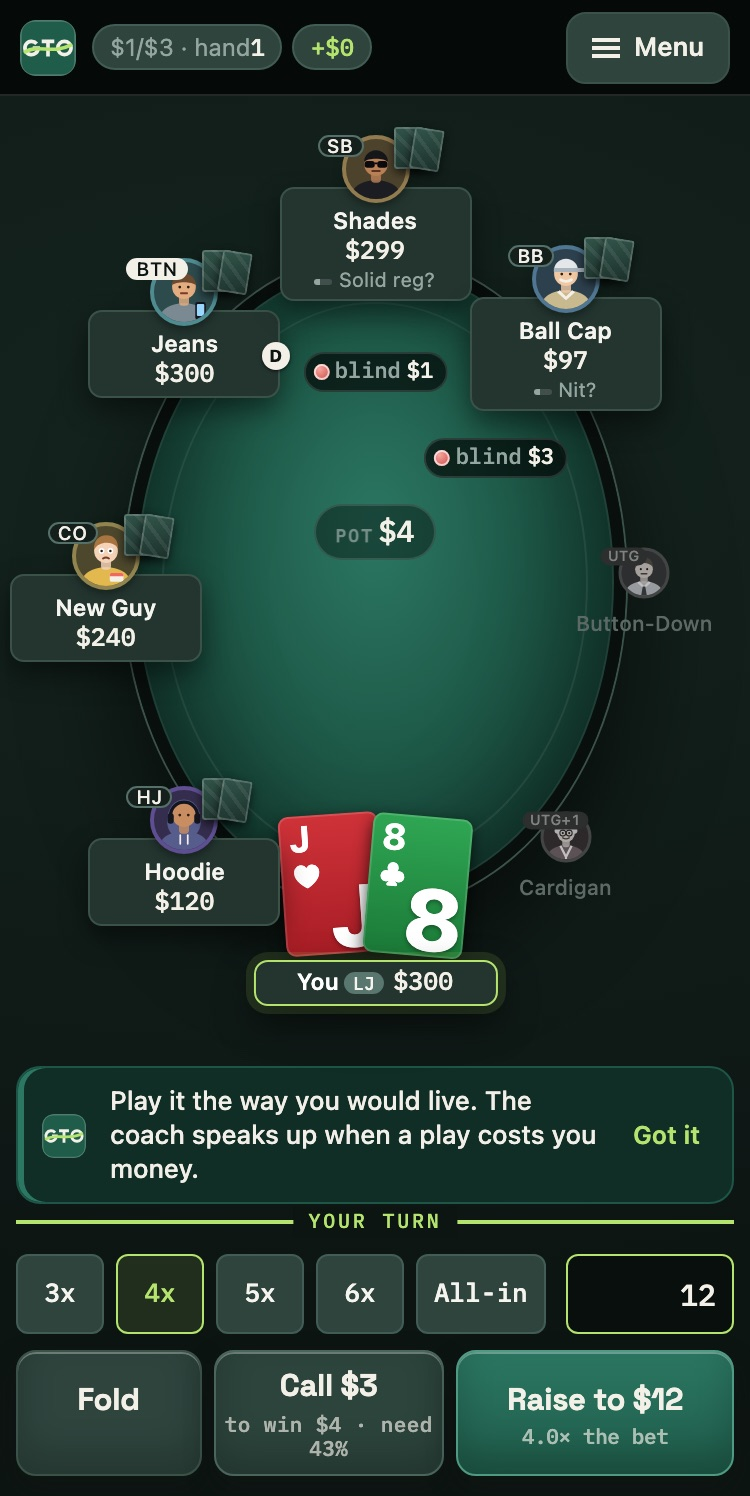
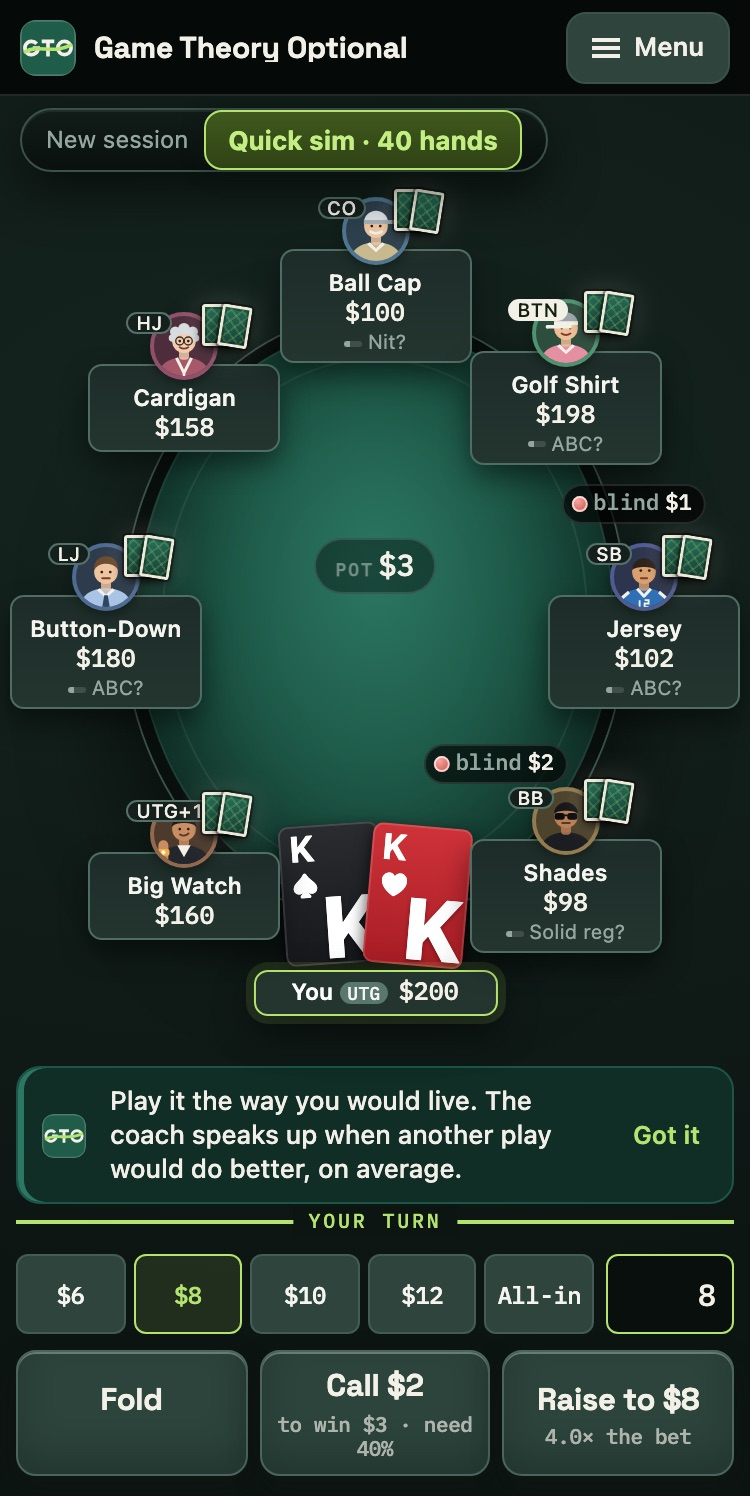
Phones, first visit (DESIGN, CEO): the coach tip's row grows while the three-line tip shows, so it no longer runs under the "YOUR TURN" rule at 360, 375 and 390 wide; every other strip keeps its fixed 44px row. The landing page's phone shot is recaptured with the new tip (a $1/$2 first hand, under t

diff --git a/src/ui/app.js b/src/ui/app.js
@@ -994,6 +994,9 @@ function stripHtml(show, { worst, prev }) {
 function renderToast() {
   const h = sess.hand;
   const el = $('toast');
+  // the first-visit tip runs to three lines on a phone: its row grows while it shows (DESIGN, CEO: it ran under the
+  // "YOUR TURN" rule); every other strip keeps the fixed 44px row, so the table never jumps
+  el.classList.remove('hint-on');
   // RV2-B: on a phone, a coach that couldn't load says so here, over anything else, and once (role="status")
   if (showCoachDown({ failed: judge.failed, phone: matchMedia('(max-width: 600px)').matches })) {
     if (!el.querySelector('.cs.down')) {
@@ -1007,6 +1010,7 @@ function renderToast() {
   const turnKey = `${h.no}:${h.state.history.length}`;
   if (sess.status() === 'hero' && prevTurn.key !== turnKey) prevTurn = { key: turnKey, seen: new Set(h.decisions.filter((x) => !x.pending).map((x) => x.id)) };
   if (hintOn) {
+    el.classList.add('hint-on');
     el.innerHTML = `<div class="toast hint"><svg class="tile" viewBox="0 0 32 32" width="22" height="22" aria-hidden="true"><rect width="32" height="32" rx="8" fill="#1f5c4a"/><rect x=".5" y=".5" width="31" height="31" rx="7.5" fill="none" stroke="#f3f0e8" stroke-opacity=".22"/><g fill="none" stroke="#f3f0e8" stroke-width="2.1"><path d="M9.51 13.56A3.8 3.8 0 1 0 10.4 16H7.3"/><path d="M12.4 12.2h7.2M16 12.2v8.65"/><circle cx="25.4" cy="16" r="3.8"/></g><path d="M3 18.2C10 13.8 19 19.6 29 14.4" fill="none" stroke="#b4e46e" stroke-width="2.1" stroke-linecap="round"/></svg>
       <span class="t-main">Play it the way you would live. The coach speaks up when another play would do better, on average.</span>
       <button type="button" class="t-more" id="hint-ok">Got it</button></div>`;

diff --git a/play.html b/play.html
@@ -16,7 +16,7 @@
 <link rel="apple-touch-icon" href="assets/apple-touch-icon.png">
 <link rel="preload" href="assets/fonts/space-grotesk-var.woff2?v=86547af457" as="font" type="font/woff2" crossorigin>
 <link rel="stylesheet" href="src/ui/fonts.css?v=1b671c242f">
-<link rel="stylesheet" href="src/ui/table.css?v=5a8ebb10e6">
+<link rel="stylesheet" href="src/ui/table.css?v=a43adeeffc">
 </head>
 <body>
 <!-- Drawn avatars, one symbol per look (assets/avatars/sprite.svg, inlined so <use href="#av-id"> works). -->
@@ -142,7 +142,7 @@
   "./src/trainer/replay.js": "./src/trainer/replay.js?v=0d2445159e",
   "./src/trainer/session.js": "./src/trainer/session.js?v=c75c7c7437",
   "./src/trainer/tuning.js": "./src/trainer/tuning.js?v=ac5d58551d",
-  "./src/trainer/version.js": "./src/trainer/version.js?v=05603b01c1",
+  "./src/trainer/version.js": "./src/trainer/version.js?v=0dcdce16ac",
   "./src/trainer/vs3bet.js": "./src/trainer/vs3bet.js?v=1a174692b2",
   "./src/ui/bag.js": "./src/ui/bag.js?v=755b7c0777",
   "./src/ui/baglayer.js": "./src/ui/baglayer.js?v=f96f08609e",
@@ -156,6 +156,6 @@
  }
 }
 </script>
-<script type="module" src="src/ui/app.js?v=76bcc12046"></script>
+<script type="module" src="src/ui/app.js?v=77facf91f0"></script>
 </body>
 </html>

diff --git a/index.html b/index.html
@@ -164,7 +164,7 @@
       </div>
 
       <div class="device"><div class="screen"><img src="assets/landing/table-phone.jpg" width="375" height="748" loading="eager"
-        alt="The trainer on a phone: the first hand at a $1/$3 table, you in late position with jack-eight, seven opponents with drawn avatars, and the coach's first note: play it the way you would live; the coach speaks up when another play would do better, on average."></div></div>
+        alt="The trainer on a phone: the first hand at a $1/$2 table, you under the gun with a pair of kings, seven opponents with drawn avatars, and the coach's first note: play it the way you would live; the coach speaks up when another play would do better, on average."></div></div>
     </div>
   </div>
 </header>

diff --git a/src/ui/table.css b/src/ui/table.css
@@ -2369,6 +2369,7 @@ button.placard:focus-visible { outline: 2px solid var(--signal); outline-offset:
 #news { display: none; }
 #bottom-left { justify-content: flex-end; }
 #bottom #toast { min-height: 44px; height: 44px; margin: 4px 0 0; }
+#bottom #toast.hint-on { height: auto; }
 #toast .cs { display: grid; grid-template-columns: auto auto minmax(0, 1fr) auto; column-gap: 10px; align-items: center; width: 100%; height: 44px; padding: 0 12px 0 10px; margin: 0;
   border-radius: 12px; border: 1px solid var(--line); background: var(--panel); box-shadow: inset 3px 0 0 var(--signal); color: var(--chalk); font: 600 14px/1 var(--ui, inherit); text-align: left; cursor: pointer; }
 #toast button.cs:hover { border-color: var(--line-2); filter: none; }

diff --git a/src/trainer/version.js b/src/trainer/version.js
@@ -1,6 +1,6 @@
 // Written by scripts/stamp.js: a build id over every module under src/, and the hash of each module
 // the judge worker imports (it checks the copies it loaded against these).
-export const BUILD = 'faf6a9bd231b';
+export const BUILD = 'f71fbe018945';
 export const HASHES = {
  "src/bots/policy.js": "91bca1482f",
  "src/bots/profiles.js": "c89fecb238",
